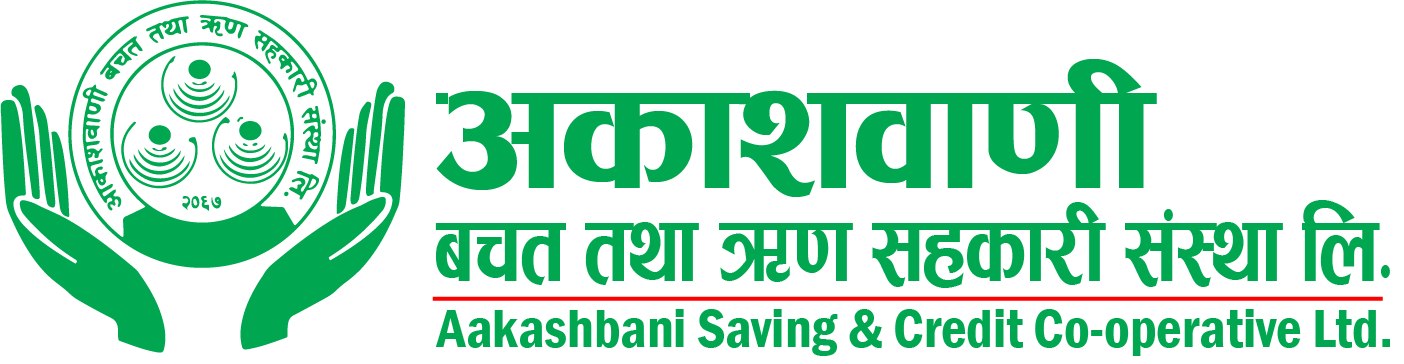
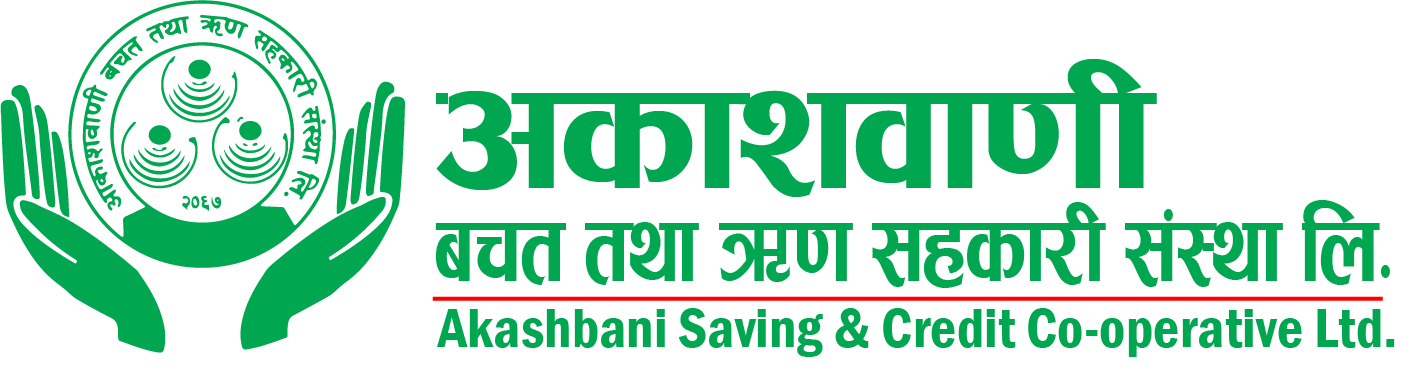
akashbani name changed

diff --git a/lib/common/constant/env.dart b/lib/common/constant/env.dart
@@ -1789,7 +1789,7 @@ class CoOperativeValue {
     splashImage: "assets/aakashbani/aakashbani_splash.png",
     primaryColor: const Color(0xFF00A655),
     coOperativeName: "Aakashbani Saving and Credit Cooperative Pvt Ltd",
-    appTitle: 'Aakashbani iSmart',
+    appTitle: 'Akashbani iSmart',
   );
   static final CoOperative shreeAmrapaliCoop = CoOperative(
     appStoreID: "",
@@ -2326,7 +2326,7 @@ class CoOperativeValue {
     coOperativeName: "Ekikrit Saving & Credit Co-operative Ltd.",
     appTitle: "Ekikrit iSmart",
   );
-static final CoOperative machhapuchhreCoop = CoOperative(
+  static final CoOperative machhapuchhreCoop = CoOperative(
     appStoreID: "",
     packageName: "",
     baseUrl: 'https://ismart.devanasoft.com.np/',
@@ -2340,5 +2340,5 @@ static final CoOperative machhapuchhreCoop = CoOperative(
     coOperativeName: "Machhapuchhre Saving and Credit Co-operative Ltd.",
     appTitle: "Machhapuchhre iSmart",
   );
-  static final CoOperative currentCoop = macchaPuchhreCoop;
+  static final CoOperative currentCoop = aakashbaniCoop;
 }
